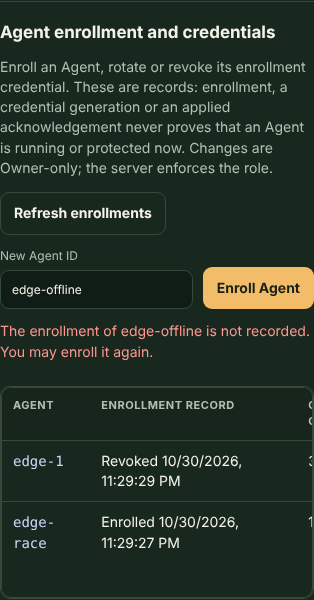
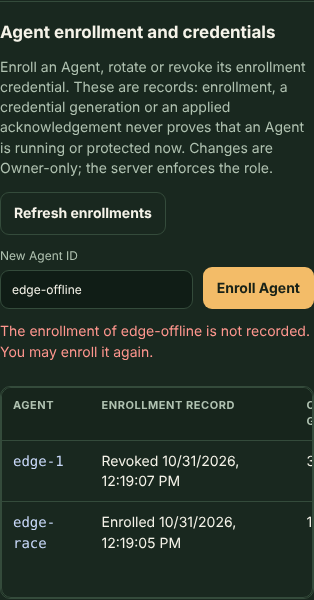
Update Console Agent enrollment evidence after the review fixes

diff --git a/docs/operations/evidence/CONSOLE_AGENT_ENROLLMENT_2026-10-31.md b/docs/operations/evidence/CONSOLE_AGENT_ENROLLMENT_2026-10-31.md
@@ -9,10 +9,10 @@ reports and screenshots: [console-agent-enrollment-2026-10-31/](console-agent-en
 | Item | Value |
 | --- | --- |
 | Platform | hosted Ubuntu 24.04.5 x86_64 container, non-root user (not a physical host, not WSL2) |
-| Base | main `c92d62e0` |
-| Source | code commit of this change, tree `cdec9b292108399139185a5e0695da17bfd9aafc` (local commit `874cfb27`), clean |
[2 lines of base64/hex data omitted]
+| Base | main `7c5cf90c` (PR branch rebased from `c92d62e0`) |
+| Source | code commit of this change, tree `8529551517914f3771abf78b5d9982422631bc7e` (local commit `325f3a24`, after the review fixes), clean |
[2 lines of base64/hex data omitted]
 | Stores | disposable SQLite file; disposable PostgreSQL 16.15 cluster on 127.0.0.1 with TLS (owned CA, `sslmode=require` verified by the Console rustls connector) |
 | Agent transport | existing HTTPS client through an owned private-CA edge on 127.0.0.1; credential from `SOUP_MANAGED_AGENT_TOKEN_FILE` |
 | Browser | Chromium (Playwright) to the Console over loopback HTTP |
@@ -25,16 +25,18 @@ synthetic value in [synthetic-secret-view.png](console-agent-enrollment-2026-10-
 
 ## Result: `scripts/console-enrollment-acceptance.py` passed
 
-SQLite: **26 checks**. PostgreSQL: **27 checks** (adds the TLS migration).
+SQLite: **29 checks**. PostgreSQL: **30 checks** (adds the TLS migration; the generated database password reaches `initdb` only on standard input).
 
 | Step | Observed on both stores |
 | --- | --- |
 | Enroll | Owner typed the ID and pressed Enter; the one-time view showed the credential and install steps with the tenant, Agent ID and pinned issuer key; nothing in the URL or browser storage; clearing removed it from the page |
+| Displayed installer | the exact command shown in the one-time view was run with `bash`: it refused an existing token-file link to an owned `0644` file and an existing public file (both unchanged), ignored a planted fixed-name `.next` link and installed the credential as a private `0600` file by rename; every later install in this run used the same displayed command |
 | Fetch and acknowledge | the unchanged `agentfw serve`, reading the stored token file over the HTTPS edge, fetched `r1` and acknowledged it applied (sequence 1) |
 | Rotate | typed confirmation; new credential shown once (generation 2); the old credential was refused on `whoami`, policy fetch and acknowledgement at once; after the documented rename the **same Agent process** fetched and applied `r2` (sequence 2) |
 | Ambiguous rotation | the request reached the server but the browser lost the response: no credential shown, changes disabled; **Confirm with the same request** sent the byte-identical request; generation advanced once (3) and only then the credential appeared; generation 2 refused; Agent applied `r3` |
 | Late response | an enrollment response delayed until after a switch to the other tenant was never shown; the Agent was recorded only in the submitted tenant |
 | Negatives | Viewer browser without lifecycle controls; Viewer and Operator enroll/rotate/revoke refused **403**; cross-tenant rotate **409** and revoke **404**; an Agent credential cannot administer (**401**); nothing changed |
+| Lost authorization | a second Owner's session was revoked while its panel was open; the next refresh reported it and disabled every change; nothing more was sent |
 | Revoke | typed confirmation; credential refused; the Agent kept its last verified policy (`r3`) |
 | Unavailable API | Console stopped: reads failed visibly, an enrollment attempt stayed "unknown" with changes disabled; after restart **Check again** reported it was not recorded; lifecycle state survived the restart |
 | Layout | 390 px wide page without horizontal overflow |
@@ -48,14 +50,18 @@ Screenshots: [enrolled](console-agent-enrollment-2026-10-31/sqlite-enrolled.png)
 
 ## Focused regressions
 
-- `scripts/tests/test_console_enrollment_browser.py` (12, synthetic fixtures):
+- `scripts/tests/test_console_enrollment_browser.py` (14, synthetic fixtures):
   Viewer/Operator read-only; one-time view, focus, clearing and no storage;
   late response after a tenant switch; duplicate and invalid IDs; ambiguous
   enrollment without resend; rotation request shape (current generation,
   32-hex operation ID, fresh `sw_agent_` credential); ambiguous rotation
   confirmed only with the identical body; refused and discarded rotations;
   revocation with Escape and typed confirmation; 401, 403 and unavailable API;
-  Lock console; narrow layout.
+  Lock console; narrow layout; 401/403 on inventory reads lock every change;
+  the displayed enrollment and rotation installers run under `bash` and `sh`:
+  private `0600` install, refusal of linked, public, group-writable and linked
+  directory targets, an unused planted `.next` link, invalid input leaving
+  nothing, rotation requiring `SOUP_MANAGED_AGENT_TOKEN_FILE`.
 - `scripts/tests/test_console_rollout_browser.py` (16) still passes with the
   enrollment module on the page.
 - `crates/proxy/tests/proxy_tenants.rs`: the served page includes the panel
